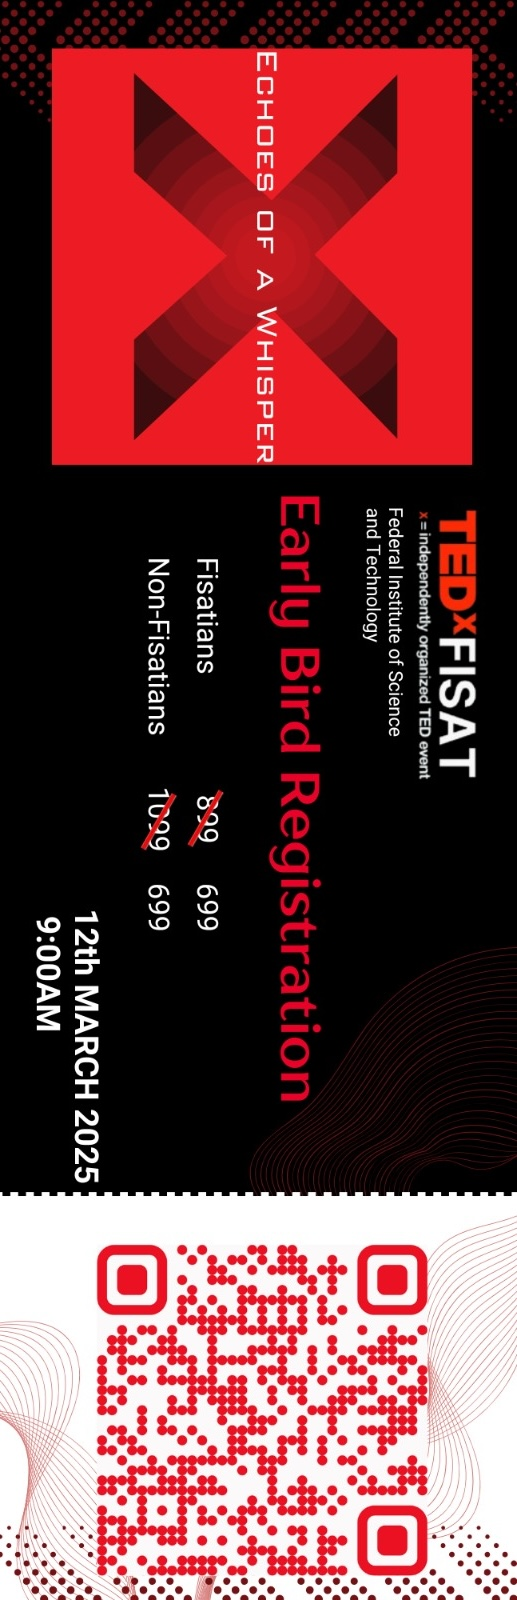
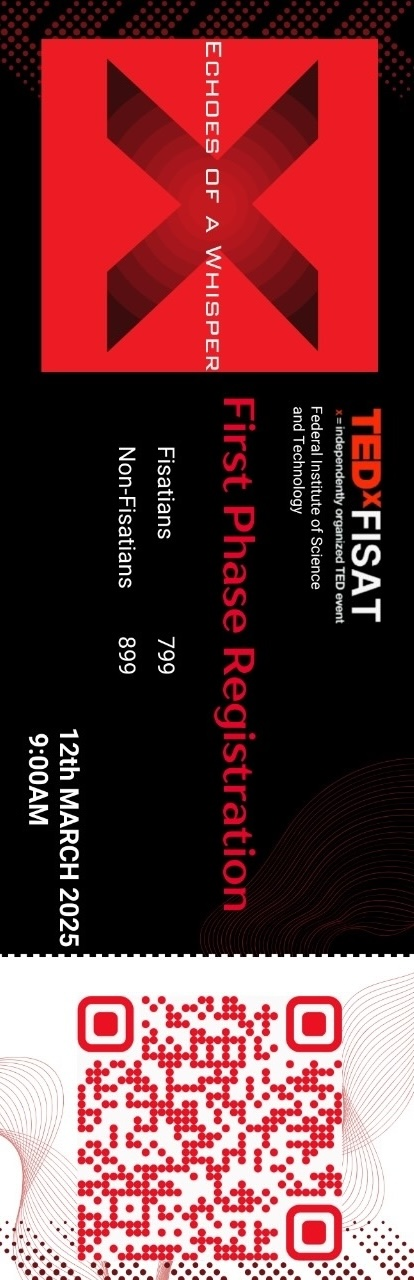
background img + tickets swapped

diff --git a/index.html b/index.html
@@ -260,7 +260,7 @@
 
 <section id="regHome" style="font-size: 3rem; margin-top: 20vh;z-index: 100;width: 100vw;height:fit-content;">
   <h1 id="PEheading" style='text-align: center;font-family: "Bebas Neue", serif;font-size: 3.5em;'>REGISTER</h1>
-  <img id="ticc" src="./prev/ticket.jpeg" width="90%" style="margin-left: 5vw;box-shadow: 0 0 40px rgba(255, 255, 255,0.3);"/>
+  <img id="ticc" src="./ticket.webp" width="90%" style="margin-left: 5vw;box-shadow: 0 0 40px rgba(255, 255, 255,0.3);"/>
   <br/>
   <a href="/Registration.html" style="left: calc(50vw - 50px);z-index: 100;position: absolute;">
     <button onclick="console.log('Works')" style='cursor: pointer;;border:none;border-radius:6px;padding:20px;font-size: 1.3rem;background-color: #E62B1E;font-weight: 700;font-family: "Bebas Neue", serif;'>REGISTER NOW</button>

diff --git a/Style.css b/Style.css
@@ -21,8 +21,7 @@ a[href^="tel"] {
 #home {
   position: sticky;
   top: 0;
-  background: url("./landingDesk.webp");
-  object-fit: cover;
+  /* object-fit: cover; */
 }
 
 #home::before {
@@ -33,8 +32,9 @@ a[href^="tel"] {
   width: 100%;
   height: 100%;
   /* background-image: url(./VIDEO-2025-02-20-15-50-09.mp4); */
-  background-image: url(./page.png);
-  filter: brightness(45%);
+  /* background-image: url(./page.png); */
+  background: url("https://img.freepik.com/free-vector/dark-graphic-wavy-screensaver_23-2148400271.jpg?semt=ais_hybrid");
+  filter: brightness(80%);
   background-size: cover;
   background-position: center;
   filter: blur(px);
@@ -922,7 +922,7 @@ container {
   }
 
   #ticc {
-    content: url("./prev/tickMob.jpeg");
+    content: url("./tickMob.webp");
   }
 
   #regHome>a>button {
